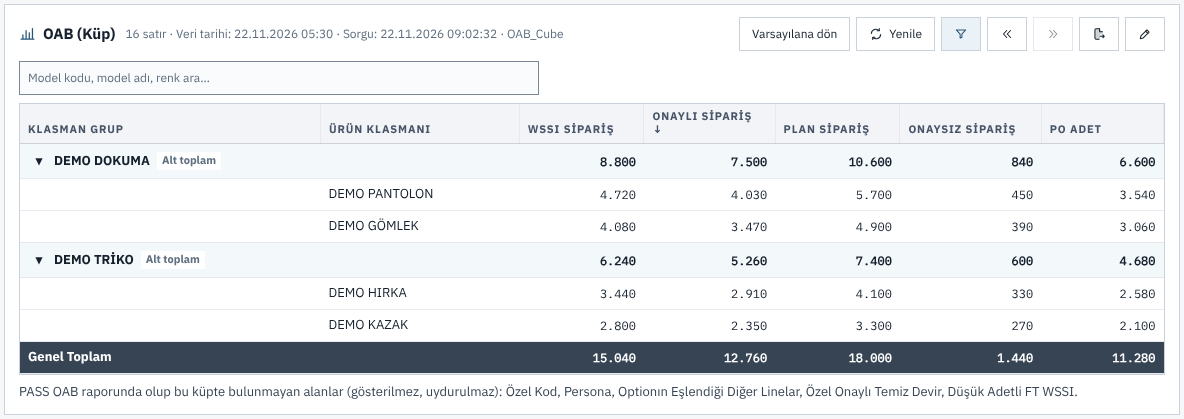
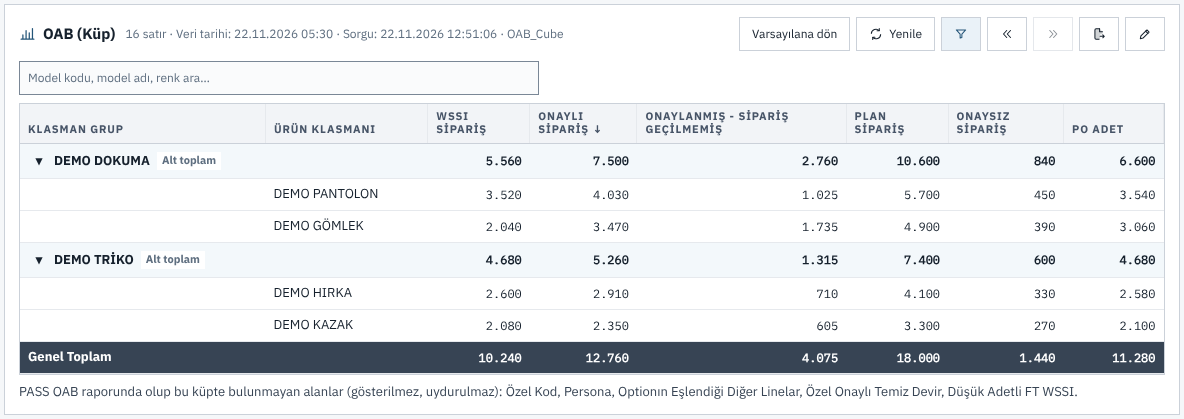
OAB (Küp): "Onaylanmış - sipariş geçilmemiş" ve "Klasman analizine konu adet"
- Küpte olmayan iki ölçü, küp satırları (option = model × renk) üzerinde PASS
  OAB'nin satır formülüyle hesaplanır: WSSI 0 ise onaylı adet, değilse 0;
  klasman analizi = WSSI + bu adet. Boş WSSI/Onaylı 0 sayılır (PASS ile aynı).
  Pivotta toplanır; küp sorgusuna girmez.
- "Onaylanmış - sipariş geçilmemiş" varsayılan değerlere eklendi. Kayıtlı
  görünümler değişmez; alan "Değer ekle"den eklenebilir.
- Ölçü ipucu formülü TR/EN söyler. Önbellek anahtarı v2'ye geçti; eski
  kayıtlarda türetilmiş alan yoktu.
- Sürüm notu kaydı ve değişiklik sonrası ekran görüntüsü güncellendi. Ekran
  betiği türetilmiş değerleri gerçek sunucu fonksiyonuyla üretir ve genel
  toplamı doğrular.

Claude-Session: https://claude.ai/code/session_01HKcjmhXE3GLJzcdJChb8f6

diff --git a/resources/app/server/lib/oab-cube-report.js b/resources/app/server/lib/oab-cube-report.js
@@ -101,7 +101,7 @@ const FRESHNESS = Object.freeze([
 const FILTER_KEYS = Object.freeze(DIMENSIONS.filter(item => item.filter).map(item => item.key));
 const DEFAULT_FILTERS = Object.freeze(['season', 'mag', 'buyerGroup', 'brandAgeGroup', 'supplyBasket', 'carryOver']);
 const DEFAULT_ROWS = Object.freeze(['classGroup', 'classification']);
-const DEFAULT_VALUES = Object.freeze(['wssi', 'approved', 'plan', 'unapproved', 'poQty']);
+const DEFAULT_VALUES = Object.freeze(['wssi', 'approved', 'approvedNotOrdered', 'plan', 'unapproved', 'poQty']);
 const AGGREGATES = Object.freeze(['SUM', 'AVG', 'MIN', 'MAX']);
 const EXTRA_PREFIX = 'x_';
 const MAX_AXIS_FIELDS = 12;
@@ -109,7 +109,37 @@ const SOURCE_PATTERN = /^\[[^\[\]]{1,200}\](?:\.\[[^\[\]]{1,200}\]){1,2}$/;
 
 function clean(value) { return String(value == null ? '' : value).trim(); }
 function error(message, code, statusCode = 400) { return Object.assign(new Error(message), { code, statusCode }); }
-const measureByKey = key => MEASURES.find(item => item.key === key);
+/* Türetilmiş ölçüler küpte yoktur; küpten gelen satırlar üzerinde PASS OAB'nin
+   satır formülüyle (public/oab.js deriveBuyerMetrics) birebir hesaplanır ve
+   pivotta toplanır. Küp satırı model × renk (option) düzeyindedir; PASS OAB
+   satırı da option düzeyindedir. Boş WSSI/Onaylı 0 sayılır (PASS ile aynı).
+     Onaylanmış - sipariş geçilmemiş = WSSI 0 ise Onaylı, değilse 0
+     Klasman analizine konu adet     = WSSI + Onaylanmış - sipariş geçilmemiş */
+const DERIVED_MEASURES = Object.freeze([
+  {
+    key: 'approvedNotOrdered', tr: 'Onaylanmış - sipariş geçilmemiş', en: 'Approved - not yet ordered', kind: 'quantity', agg: 'SUM', derived: true,
+    pass: 'Toplam Onaylanmış - Sipariş Geçilmemiş Adet', // i18n-ignore: PASS kaynak başlığı
+    hintTr: 'Option satırında WSSI sipariş 0 ise onaylı sipariş adedi, değilse 0; sonra toplanır (PASS OAB ile aynı formül).',
+    hintEn: 'Per option row: the approved order quantity when the WSSI order is 0, otherwise 0; then summed (same formula as PASS OAB).',
+  },
+  {
+    key: 'classAnalysisQty', tr: 'Klasman analizine konu adet', en: 'Class analysis quantity', kind: 'quantity', agg: 'SUM', derived: true,
+    pass: 'Toplam Klasman Analize Konu Olan Toplam Adet', // i18n-ignore: PASS kaynak başlığı
+    hintTr: 'Option satırında WSSI sipariş + onaylanmış ama sipariş geçilmemiş adet; sonra toplanır (PASS OAB ile aynı formül).',
+    hintEn: 'Per option row: the WSSI order plus the approved but not yet ordered quantity; then summed (same formula as PASS OAB).',
+  },
+].map(Object.freeze));
+
+function deriveRow(row) {
+  const wssi = row.wssi == null ? 0 : row.wssi;
+  const approved = row.approved == null ? 0 : row.approved;
+  const approvedNotOrdered = wssi === 0 ? approved : 0;
+  row.approvedNotOrdered = approvedNotOrdered;
+  row.classAnalysisQty = wssi + approvedNotOrdered;
+  return row;
+}
+
+const measureByKey = key => MEASURES.find(item => item.key === key) || DERIVED_MEASURES.find(item => item.key === key);
 
 /* Bağlantı: bu kataloğa (OAB_Cube) Veri Yönetimi'nde tanımlanmış bir bağlantı
    varsa o; yoksa INTAKE rolünün sunucusu (aynı SSAS sunucusu) + OAB_Cube;
@@ -334,10 +364,15 @@ function buildQuery({ liveFields = [], view = null, filterValues = {}, maxRows =
   const headerMap = {};
   groupFields.forEach(item => outputAliases(item.field).forEach(alias => { headerMap[alias] = item.key; }));
   measureFields.forEach(item => { headerMap[item.key] = item.key; headerMap[`[${item.key}]`] = item.key; });
+  // WSSI ve Onaylı zorunlu ölçülerdir (her sorguda var); türetilmiş ölçüler
+  // bunlardan satır düzeyinde hesaplanır, küp sorgusuna girmez.
+  const queriedKeys = measureFields.map(item => item.key);
+  const derivedKeys = ['wssi', 'approved'].every(key => queriedKeys.includes(key)) ? DERIVED_MEASURES.map(item => item.key) : [];
   return {
     query, headerMap, maxRows: rowLimit, filterValues: filters,
     dimensions: groupFields.map(item => item.key),
-    measures: measureFields.map(item => item.key),
+    measures: queriedKeys,
+    derived: derivedKeys,
     missing,
   };
 }
@@ -401,11 +436,12 @@ function toNumber(value) {
 function normalizeRows(rows, built) {
   const dimensions = built && Array.isArray(built.dimensions) ? built.dimensions : DIMENSIONS.map(item => item.key);
   const measures = built && Array.isArray(built.measures) ? built.measures : MEASURES.map(item => item.key);
+  const derive = Boolean(built && Array.isArray(built.derived) && built.derived.length);
   return (Array.isArray(rows) ? rows : []).map(row => {
     const out = {};
     for (const key of dimensions) out[key] = clean(row && row[key]);
     for (const key of measures) out[key] = toNumber(row && row[key]);
-    return out;
+    return derive ? deriveRow(out) : out;
   });
 }
 
@@ -423,7 +459,10 @@ function distinctQuery(item, { search = '', limit = 500 } = {}) {
 function catalog() {
   return {
     dimensions: DIMENSIONS.map(({ key, tr, en, filter, required, code, optionalGrain }) => ({ key, tr, en, filter: Boolean(filter), required: Boolean(required), code: Boolean(code), optionalGrain: Boolean(optionalGrain) })),
-    measures: MEASURES.map(({ key, tr, en, kind, agg, required }) => ({ key, tr, en, kind, agg, required: Boolean(required) })),
+    measures: [
+      ...MEASURES.map(({ key, tr, en, kind, agg, required }) => ({ key, tr, en, kind, agg, required: Boolean(required) })),
+      ...DERIVED_MEASURES.map(({ key, tr, en, kind, agg, hintTr, hintEn }) => ({ key, tr, en, kind, agg, required: false, derived: true, hintTr, hintEn })),
+    ],
     passOnlyFields: PASS_ONLY_FIELDS.map(item => ({ ...item })),
     defaults: normalizeView(null),
     aggregates: [...AGGREGATES],
@@ -432,7 +471,7 @@ function catalog() {
 }
 
 module.exports = {
-  OAB_CUBE_CONNECTION, OAB_CUBE_MAX_ROWS, DIMENSIONS, MEASURES, PASS_ONLY_FIELDS, PROVEN_TABLES, FILTER_KEYS, DEFAULT_VALUES, DEFAULT_ROWS,
+  OAB_CUBE_CONNECTION, OAB_CUBE_MAX_ROWS, DIMENSIONS, MEASURES, DERIVED_MEASURES, PASS_ONLY_FIELDS, PROVEN_TABLES, FILTER_KEYS, DEFAULT_VALUES, DEFAULT_ROWS,
   resolveConnection, resolveFields, normalizeRef, normalizeFilterValues, normalizeView, buildQuery, normalizeRows, toNumber,
   freshnessQuery, normalizeFreshness, distinctQuery, resolveFilterField, metadata, extraKey, isProvenTable, catalog,
 };

diff --git a/resources/app/tests/oab-cube-report-v20261122.test.js b/resources/app/tests/oab-cube-report-v20261122.test.js
@@ -102,6 +102,30 @@ test('kod alanları asla sayıya çevrilmez; yalnız ölçüler sayıdır (ondal
   assert.equal(row.unapproved, null);
 });
 
+test('türetilmiş ölçü: onaylanmış - sipariş geçilmemiş ve klasman analiz adedi PASS OAB satır formülüyle hesaplanır, küp sorgusuna girmez', () => {
+  const view = report.normalizeView({ filterValues: { season: ['S6'] }, values: [{ key: 'approvedNotOrdered' }, { key: 'classAnalysisQty' }] });
+  assert.deepEqual(view.values.map(ref => [ref.key, ref.agg]), [['approvedNotOrdered', 'SUM'], ['classAnalysisQty', 'SUM']]);
+  const built = report.buildQuery({ liveFields: liveSchema(), view });
+  assert.deepEqual(built.derived, ['approvedNotOrdered', 'classAnalysisQty']);
+  assert.ok(!built.measures.includes('approvedNotOrdered'));
+  assert.doesNotMatch(built.query, /approvedNotOrdered|classAnalysisQty|Geçilmemiş/);
+  const rows = report.normalizeRows([
+    { season: 'S6', modelCode: 'M1', colourCode: 'C1', wssi: 0, approved: 50 },
+    { season: 'S6', modelCode: 'M2', colourCode: 'C1', wssi: 10, approved: 30 },
+    { season: 'S6', modelCode: 'M3', colourCode: 'C1', wssi: null, approved: 7 },
+    { season: 'S6', modelCode: 'M4', colourCode: 'C1', wssi: null, approved: null },
+  ], built);
+  assert.deepEqual(rows.map(row => row.approvedNotOrdered), [50, 0, 7, 0]);
+  assert.deepEqual(rows.map(row => row.classAnalysisQty), [50, 10, 7, 0]);
+  // Satır formülü toplanmış veride yeniden kurulmaz: M1+M2 toplamında WSSI 10 olsa da geçilmemiş adet 50'dir.
+  assert.equal(rows.slice(0, 2).reduce((sum, row) => sum + row.approvedNotOrdered, 0), 50);
+  const measure = report.catalog().measures.find(item => item.key === 'approvedNotOrdered');
+  assert.equal(measure.derived, true);
+  assert.match(measure.hintTr, /WSSI sipariş 0 ise onaylı/);
+  assert.match(measure.hintEn, /WSSI order is 0/);
+  assert.match(read('public/oab-cube.js'), /measure\.derived\) return text\(measure\.hintTr, measure\.hintEn\)/);
+});
+
 test('görünüm: sezon filtresi her zaman kalır, yalnız kanıtlı tablodan küp boyutu eklenebilir, ölçü özetlemesi korunur', () => {
   const view = report.normalizeView({
     filters: ['mag'],
@@ -212,10 +236,20 @@ test('rapor: sezonsuz istek reddedilir; sorgu + veri tarihi çalışır; önbell
   assert.deepEqual(state.body.view.filterValues, { season: ['S6'] });
   assert.equal(state.body.catalog.passOnlyFields.length, 5);
   // Gösterilen verinin sorgu düzeyi istemciye döner (görünümle uyuşmazlık uyarısı için).
-  assert.deepEqual(state.body.snapshot.measures.sort(), ['approved', 'plan', 'poQty', 'unapproved', 'wssi']);
+  // Türetilmiş ölçüler (WSSI + Onaylı'dan satır düzeyinde) veride bulunduğu için listededir.
+  assert.deepEqual(state.body.snapshot.measures.sort(), ['approved', 'approvedNotOrdered', 'classAnalysisQty', 'plan', 'poQty', 'unapproved', 'wssi']);
   assert.ok(state.body.snapshot.dimensions.includes('modelCode'));
   // Görünüm mevcut lcw.oab. tercih öneki altında saklanır (senkron listesi değişmez).
   assert.equal([...h.prefs.get('u1')].some(([key]) => key === 'lcw.oab.cube.view.v1'), true);
+});
+
+test('rapor yanıtı türetilmiş ölçüleri satırlarda ve veri ölçü listesinde taşır', async () => {
+  const h = harness([{ season: 'S6', modelCode: 'M1', colourCode: 'C1', wssi: '0', approved: '40' }, { season: 'S6', modelCode: 'M2', colourCode: 'C1', wssi: '5', approved: '9' }]);
+  const res = await h.call('POST /api/oab-cube/report', { body: { view: { filterValues: { season: ['S6'] }, values: [{ key: 'approvedNotOrdered' }] } } });
+  assert.equal(res.statusCode, 200);
+  assert.deepEqual(res.body.rows.map(row => row.approvedNotOrdered), [40, 0]);
+  assert.ok(res.body.measures.includes('approvedNotOrdered') && res.body.measures.includes('classAnalysisQty'));
+  assert.match(read('server/routes/oab-cube-routes.js'), /report: 'oab-cube', version: 2/);
 });
 
 test('değer listesi sınırda kesildiyse yanıt bunu söyler; arama metni küp sorgusuna girer', async () => {

diff --git a/resources/app/scripts/oab-cube-screenshot.js b/resources/app/scripts/oab-cube-screenshot.js
@@ -7,6 +7,7 @@
 // bütün çizim gerçektir. Canlı küp doğrulaması değildir.
 const fs = require('node:fs'), path = require('node:path'), assert = require('node:assert/strict');
 const { start } = require('./lib/client-performance-app');
+const cubeReport = require('../server/lib/oab-cube-report');
 
 function demoRows() {
   const classes = [['DEMO TRİKO', ['DEMO KAZAK', 'DEMO HIRKA']], ['DEMO DOKUMA', ['DEMO GÖMLEK', 'DEMO PANTOLON']]];
@@ -20,14 +21,20 @@ function demoRows() {
           season: i % 2 ? 'W6' : 'S6', mag: seq % 3 ? 'DM1A' : 'DM2B', buyerGroup: 'DEMO GRUP', classGroup, classification,
           // "3E8" bilimsel gösterime kaymamalı: kod alanı metin kalır.
           modelCode: seq === 3 ? '3E8' : `DM${400 + seq}`, modelName: `DEMO MODEL ${seq}`, colourCode: seq === 3 ? '1E5' : `C${(i % 3) + 1}`, colourName: `DEMO RENK ${(i % 3) + 1}`,
-          wssi: 600 + seq * 40, approved: 500 + seq * 35, plan: 700 + seq * 50, unapproved: seq % 4 ? 80 + seq * 5 : 0, buyingPeriodQty: 300 + seq * 10,
+          // Her üçüncü option'da WSSI yok: onaylı adedi "onaylanmış - sipariş geçilmemiş" olur.
+          wssi: seq % 3 ? 600 + seq * 40 : 0, approved: 500 + seq * 35, plan: 700 + seq * 50, unapproved: seq % 4 ? 80 + seq * 5 : 0, buyingPeriodQty: 300 + seq * 10,
           reserveApproved: 0, fastApproved: seq % 5 ? 0 : 40, poQty: 450 + seq * 30, warehouseIn: 200 + seq * 20, eligibleBuy: null,
           plannedStores: 120 + (seq % 4) * 10, landedPrice: 4.1 + (seq % 3) * 0.35, markupYd: 2.4, markupYi: 2.1,
         });
       }
     }
   }
-  return rows;
+  // Türetilmiş ölçüler gerçek sunucu fonksiyonuyla hesaplanır (küp yanıtı taklit, formül değil).
+  return cubeReport.normalizeRows(rows, {
+    dimensions: Object.keys(rows[0]).filter(key => !cubeReport.MEASURES.some(item => item.key === key)),
+    measures: cubeReport.MEASURES.map(item => item.key),
+    derived: cubeReport.DERIVED_MEASURES.map(item => item.key),
+  });
 }
 
 (async () => {
@@ -90,6 +97,10 @@ function demoRows() {
     const fmt = value => value.toLocaleString(lang === 'en' ? 'en-GB' : 'tr-TR');
     assert.ok(grandText.includes(fmt(sum('wssi'))), `WSSI genel toplamı ${fmt(sum('wssi'))}: ${grandText}`);
     assert.ok(grandText.includes(fmt(sum('approved'))), 'Onaylı genel toplamı');
+    // Varsayılan görünümde "Onaylanmış - sipariş geçilmemiş" sütunu var; genel toplam satır formülünün toplamıdır.
+    assert.ok(sum('approvedNotOrdered') > 0, 'demo veride geçilmemiş onaylı adet var');
+    assert.ok(grandText.includes(fmt(sum('approvedNotOrdered'))), `Geçilmemiş onaylı genel toplamı ${fmt(sum('approvedNotOrdered'))}: ${grandText}`);
+    assert.match(await page.textContent('#oabCubeTable thead'), lang === 'en' ? /Approved - not yet ordered/i : /Onaylanmış - sipariş geçilmemiş/i);
     const meta = await page.textContent('#oabCubeStateMeta');
     assert.match(meta, lang === 'en' ? /Data date: / : /Veri tarihi: /);
     assert.match(await page.textContent('#oabCubePassGap'), lang === 'en' ? /Special code, Persona/ : /Özel Kod, Persona/);

diff --git a/resources/app/server/routes/oab-cube-routes.js b/resources/app/server/routes/oab-cube-routes.js
@@ -137,8 +137,8 @@ module.exports = function registerOabCubeRoutes(app, deps) {
       const view = saveView(userId, { ...storedView(userId), ...(req.body && req.body.view ? req.body.view : {}) });
       const found = await liveFields();
       const built = report.buildQuery({ liveFields: found.fields, view });
-      const queryKey = store.queryKey({ connection: { server: found.connection.server, catalog: found.connection.catalog, user: String(userId) }, measures: built.measures, rows: built.dimensions, filters: built.filterValues, options: { report: 'oab-cube', version: 1 } });
-      const meta = { filterValues: built.filterValues, missing: built.missing, rowLimit: built.maxRows, measures: built.measures, dimensions: built.dimensions };
+      const queryKey = store.queryKey({ connection: { server: found.connection.server, catalog: found.connection.catalog, user: String(userId) }, measures: built.measures, rows: built.dimensions, filters: built.filterValues, options: { report: 'oab-cube', version: 2 } });
+      const meta = { filterValues: built.filterValues, missing: built.missing, rowLimit: built.maxRows, measures: [...built.measures, ...(built.derived || [])], dimensions: built.dimensions };
       if (!(req.body && req.body.forceRefresh)) {
         const cached = store.get(queryKey);
         if (cached && cached.fresh) {

diff --git a/resources/app/public/oab-cube.js b/resources/app/public/oab-cube.js
@@ -95,6 +95,7 @@
   const aggLabel = agg => text(...(AGG_LABELS[agg] || [agg, agg]));
   function valueHint(ref) {
     const measure = !ref.source && baseMeasure(ref.key);
+    if (measure && measure.derived) return text(measure.hintTr, measure.hintEn);
     if (measure && measure.kind !== 'quantity') return text(`Toplanabilir bir adet değildir; özetleme: ${aggLabel(ref.agg)} (satır değerleri küpten birebir gelir).`, `Not an additive quantity; summarization: ${aggLabel(ref.agg)} (row values come straight from the cube).`);
     if (ref.source) return `${ref.source} · ${aggLabel(ref.agg)}`;
     return text('Sıralamak için tıklayın', 'Click to sort');
